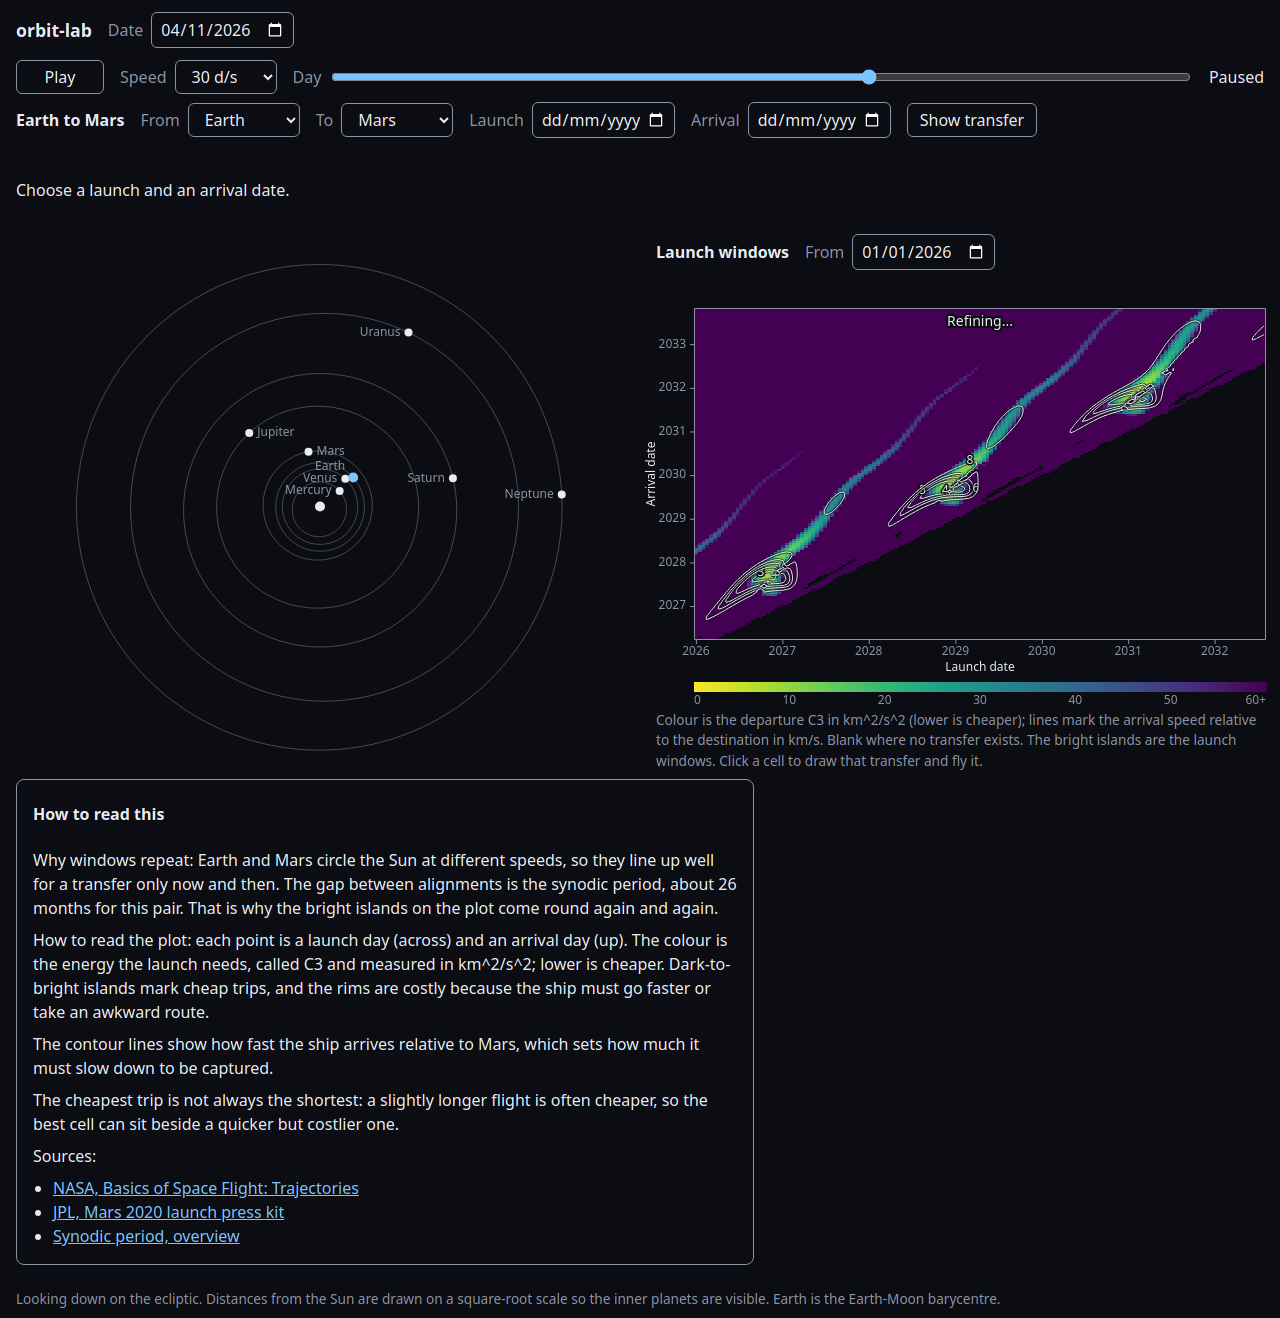
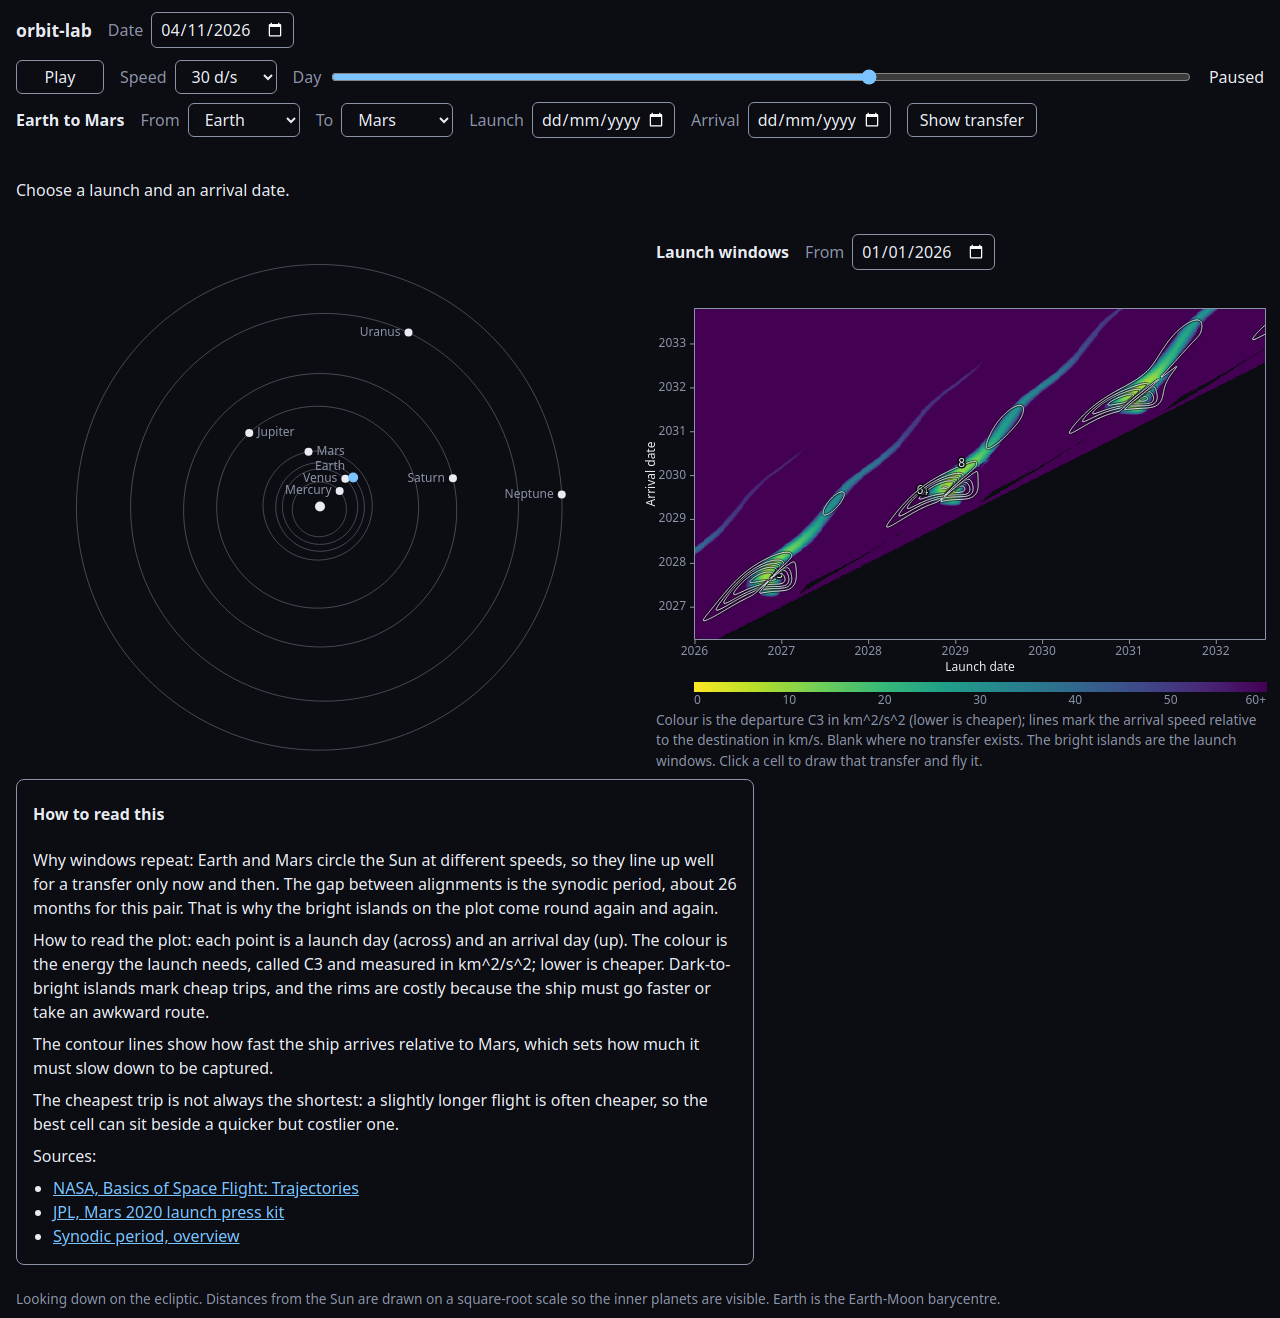
feat: README opens with screenshots and the story of the page (#23)

diff --git a/README.md b/README.md
@@ -2,7 +2,41 @@
 
 See the solar system on any date and find the launch windows to other planets.
 
-The owner's brief is [docs/brief.md](docs/brief.md). A forger work loop builds it: requests are GitHub issues labelled `ready-for-agent`, each is built on its own branch, and a PR merges only when the gates in `.forger/workloop.config.json`, CI and an independent verifier pass.
+<picture>
+  <source media="(prefers-color-scheme: dark)" srcset="docs/screenshots/index-desktop-dark.png">
+  <img alt="The eight planets on their orbits beside a porkchop plot of Earth to Mars launch windows" src="docs/screenshots/index-desktop-light.png">
+</picture>
+
+## The story
+
+Pick any date between 1900 and 2100 and the page draws the eight planets where they really were, from published orbital elements. Press play and watch them move.
+
+Then ask the question mission planners ask: when should a spacecraft leave? For every pair of launch and arrival dates the page solves Lambert's problem, the orbit that joins two points in a given time, and colours the plot by the energy the launch needs. The bright islands, about one per synodic period, are the launch windows. This is the porkchop plot.
+
+Click a cell and the transfer is drawn in the solar system view and flown from the origin planet to where the destination will be on arrival.
+
+<picture>
+  <source media="(prefers-color-scheme: dark)" srcset="docs/screenshots/trip-desktop-dark.png">
+  <img alt="A transfer from Earth to Mars in flight, with the plot's launch windows alongside" src="docs/screenshots/trip-desktop-light.png">
+</picture>
+
+The plot is checked against real launches, any pair of planets can be chosen, and a plain-words panel explains how to read it. It works on a phone and in light and dark.
+
+<picture>
+  <source media="(prefers-color-scheme: dark)" srcset="docs/screenshots/index-phone-dark.png">
+  <img alt="The page on a phone" src="docs/screenshots/index-phone-light.png" width="260">
+</picture>
+
+All the maths runs in the browser and nothing is fetched at run time.
+
+## Read more
+
+- [docs/brief.md](docs/brief.md): the owner's brief.
+- [docs/research](docs/research/): the evidence behind each choice (ephemeris, Lambert, rendering, validation, explanation).
+- [docs/adr](docs/adr/): the decisions taken from that evidence.
+- [docs/plan.md](docs/plan.md): the build order, one visible slice at a time.
+
+A forger work loop builds it: requests are GitHub issues labelled `ready-for-agent`, each is built on its own branch, and a PR merges only when the gates in `.forger/workloop.config.json`, CI and an independent verifier pass.
 
 ## Develop
 
